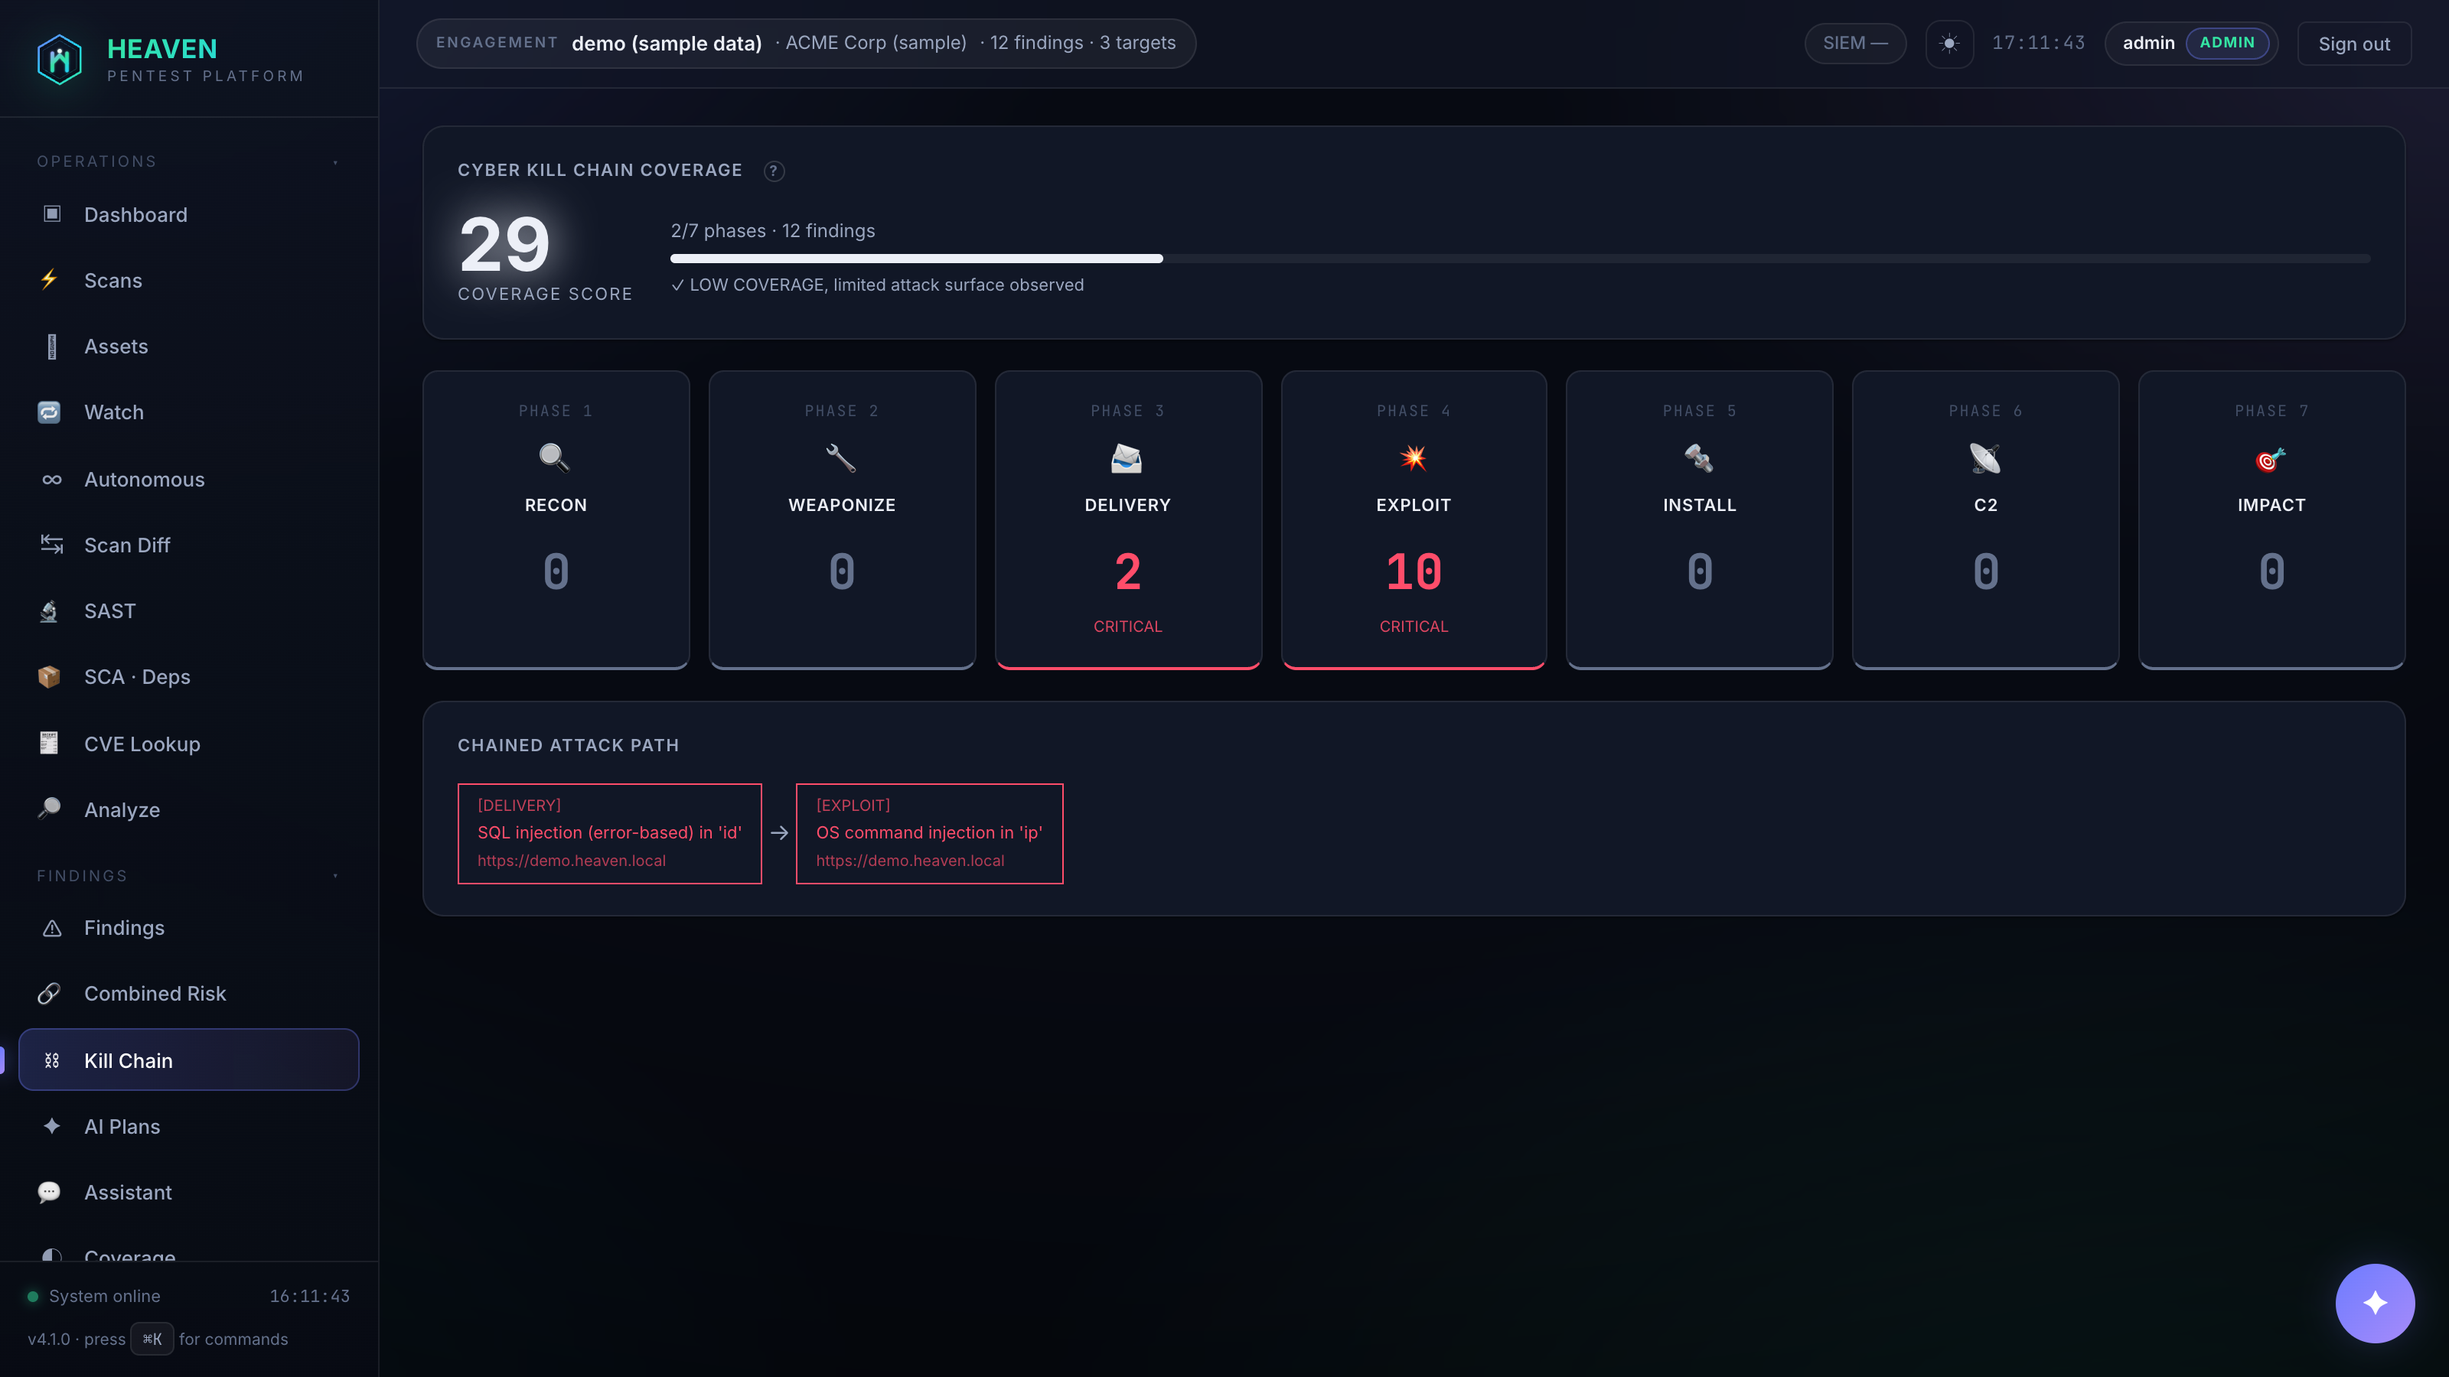
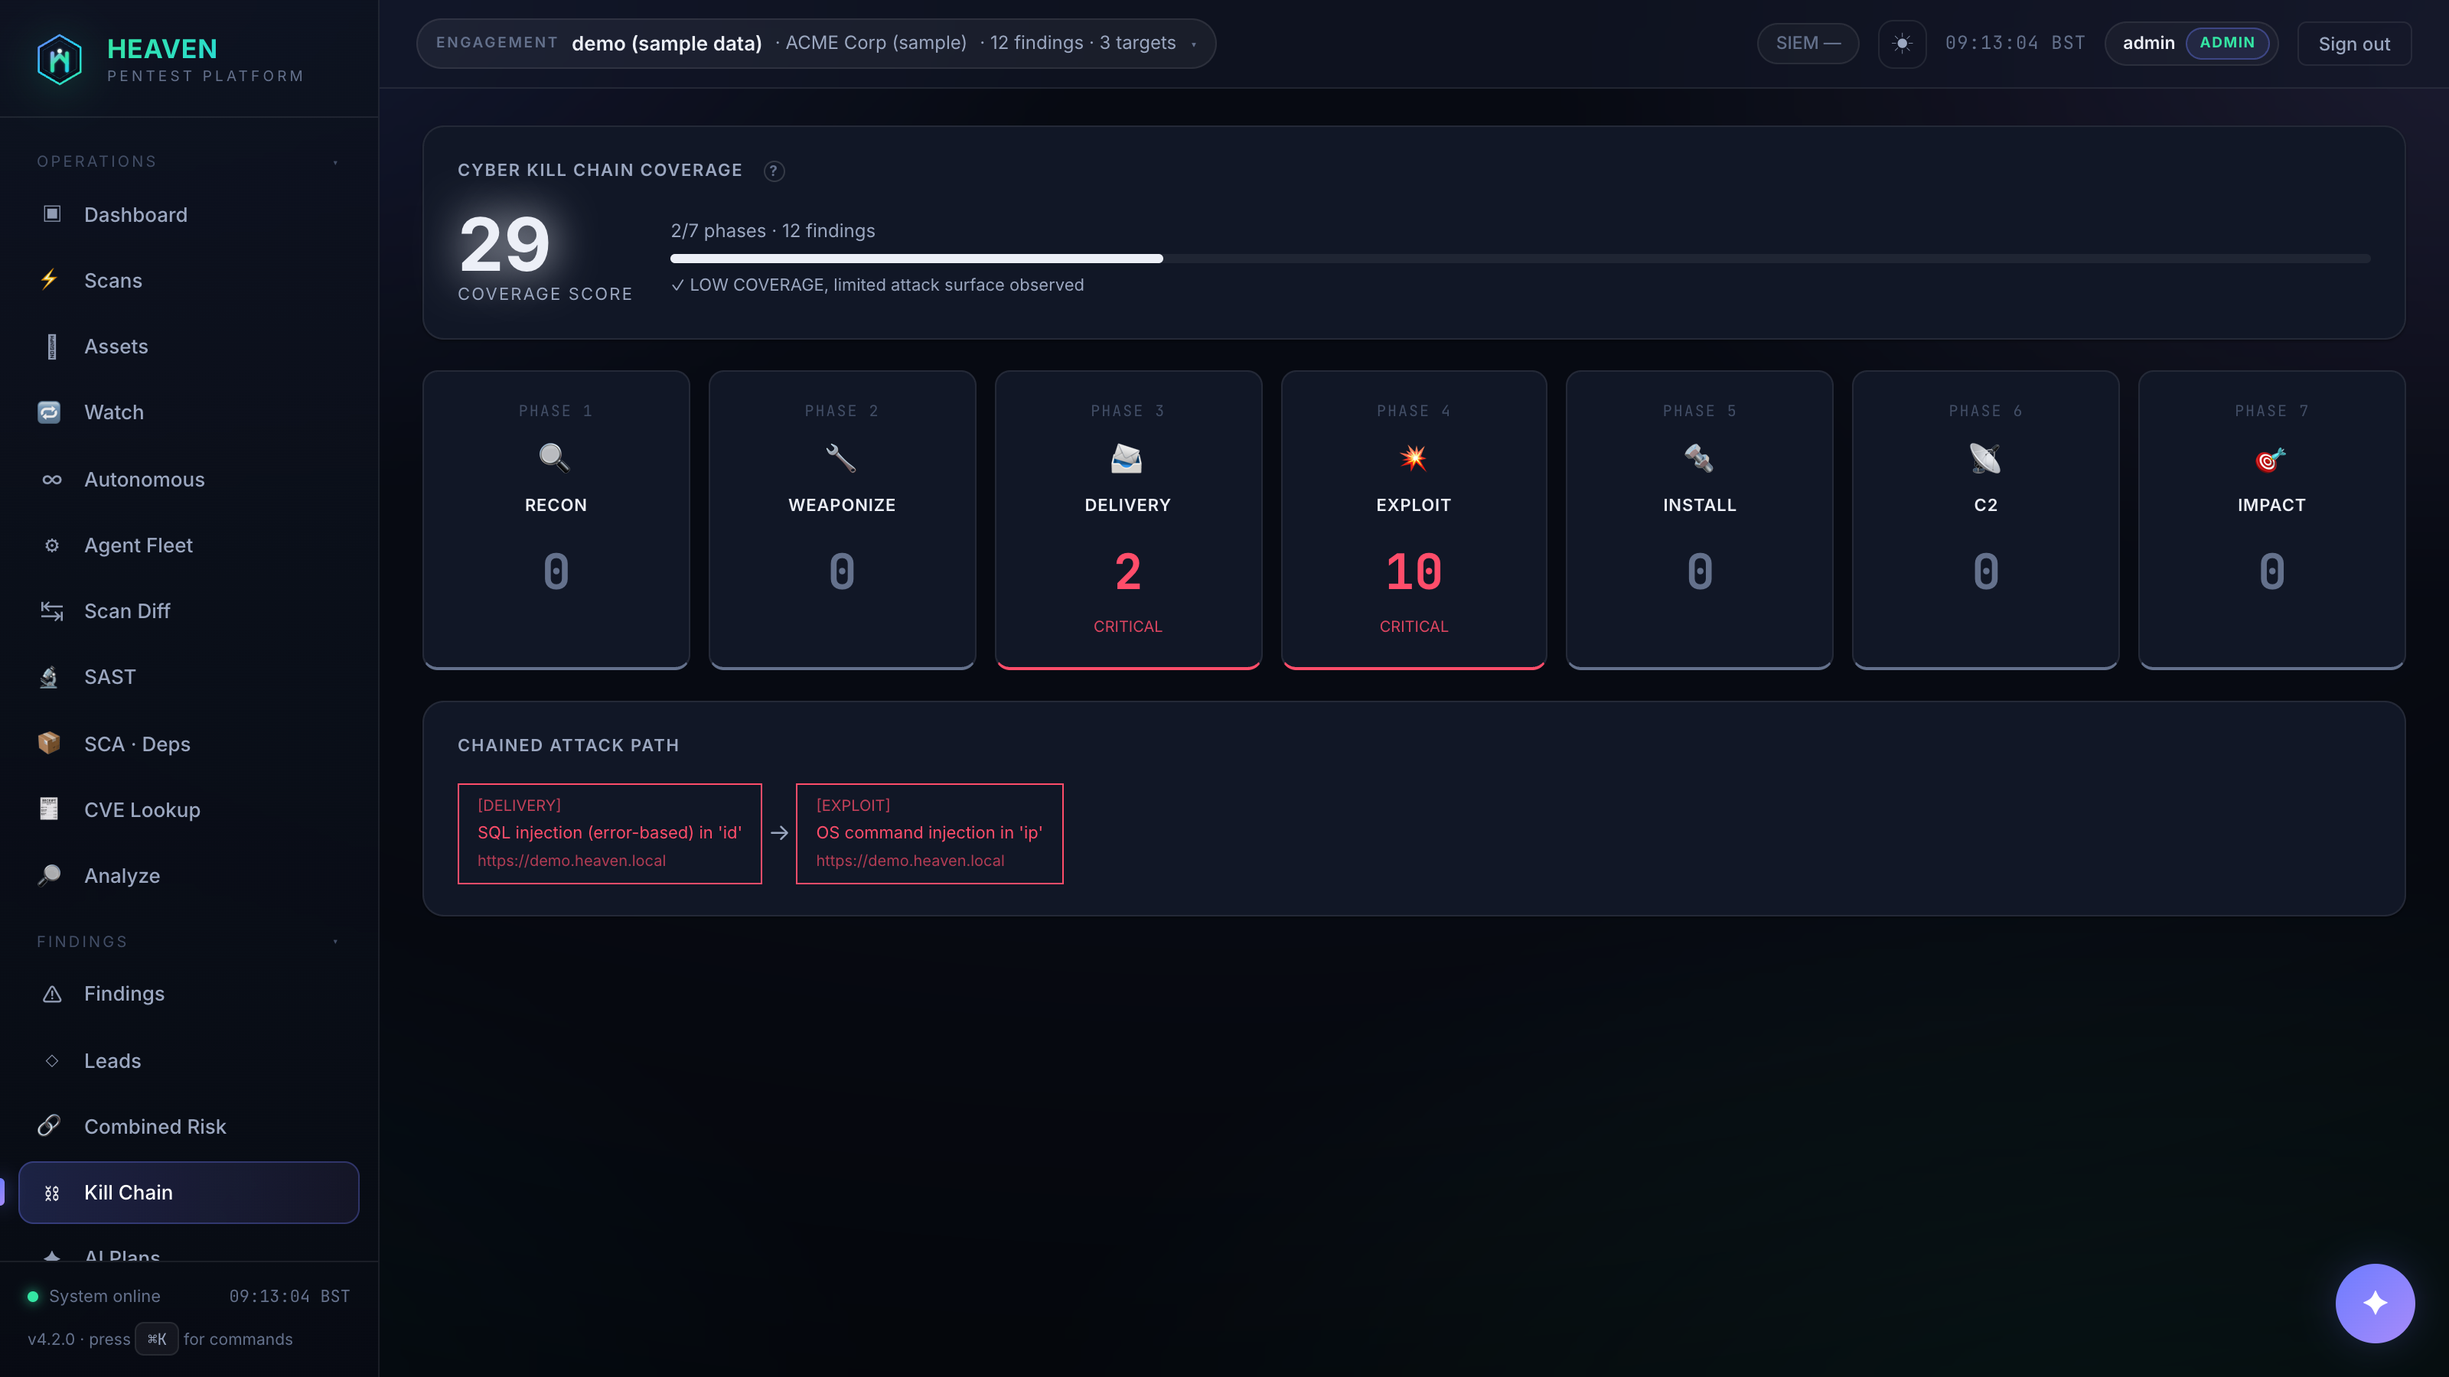
chore: release version 4.2.0
- The Agent Fleet is now the default scan engine, enhancing coverage and maintaining recall parity with classic scans.
- Java SAST now utilizes a real dataflow pass for confirming Semgrep matches, improving accuracy in vulnerability detection.
- Engagement chip in the header upgraded to an app-wide switcher for easier context switching between engagements.
- Honest leads are now retained for human review instead of being dropped silently.
- Container scanning no longer probes the operator's machine when no container host is in scope, preventing false critical findings.
- Updated various documentation and assets to reflect the new version, including README, CHANGELOG, and UI elements.
- Security updates and dependency upgrades, including resolving Bandit alerts and adding tzdata for timezone handling.

diff --git a/heaven-ui/src/components/Sidebar.jsx b/heaven-ui/src/components/Sidebar.jsx
@@ -167,7 +167,7 @@ export default function Sidebar() {
           </span>
         </div>
         <div style={{ marginTop: 8, fontSize: 10.5, color: 'var(--text-2)' }}>
-          v4.1.0 · press <kbd>⌘K</kbd> for commands
+          v4.2.0 · press <kbd>⌘K</kbd> for commands
         </div>
       </div>
     </aside>

diff --git a/tests/test_timefmt.py b/tests/test_timefmt.py
@@ -13,7 +13,7 @@ from datetime import datetime, timedelta, timezone
 import pytest
 
 import heaven.utils.timefmt as tf
-from heaven.config import HeavenConfig, get_config
+from heaven.config import HeavenConfig
 
 # A machine's tz database may be absent (a bare Windows CI without `tzdata`); the
 # helper then falls back to local, which is correct but not assertable as IST.
@@ -28,8 +28,21 @@ _needs_tzdata = pytest.mark.skipif(not _HAVE_TZDATA, reason="no IANA tz database
 
 
 def _pin(monkeypatch, name: str) -> None:
-    """Pin the display timezone on the live config singleton (auto-restored)."""
-    monkeypatch.setattr(get_config(), "report_timezone", name, raising=False)
+    """Pin the display timezone on the live config singleton (auto-restored).
+
+    Resolve ``heaven.config`` at call time instead of through a module-level
+    import: a sibling test (``test_advanced``) deletes every ``heaven.*`` module
+    from ``sys.modules`` and re-imports, so an import-time ``get_config`` binding
+    would be orphaned by the time this file runs — it would patch the *old*
+    module's singleton while ``timefmt.resolve_tz`` (which imports the config
+    fresh on every call) reads the *new* module's, and the pin would silently not
+    apply. Importing here keeps the patched singleton the one ``resolve_tz`` sees,
+    the same call-time-import discipline the rest of the suite already uses (see
+    ``test_egress_routing`` / ``test_fp_review_concurrency``)."""
+    import importlib
+
+    cfg = importlib.import_module("heaven.config")
+    monkeypatch.setattr(cfg.get_config(), "report_timezone", name, raising=False)
 
 
 # A fixed instant so wall-clock assertions are exact regardless of "now".

diff --git a/tests/test_doc_count_sync.py b/tests/test_doc_count_sync.py
@@ -81,7 +81,7 @@ def test_sync_poster_matches_real_poster_markup():
         assert ">43</text>" in bumped
         assert ">41</text>" in bumped
         assert "4242 tests, 43 CLI commands, 41 API routes" in bumped
-        # Hand-set figures survive the rewrite untouched (30 UI pages =
-        # Sidebar.jsx's 29 nav entries + the Finding Detail route; 15 scan
+        # Hand-set figures survive the rewrite untouched (32 UI pages =
+        # Sidebar.jsx's 31 nav entries + the Finding Detail route; 15 scan
         # modes = the SCAN_MODES array in scanModes.js).
-        assert "30 UI pages, 15 scan modes" in bumped
+        assert "32 UI pages, 15 scan modes" in bumped

diff --git a/heaven/ml/risk_model.py b/heaven/ml/risk_model.py
@@ -91,7 +91,7 @@ class HeavenRiskModel:
         # (data/models/cvss_regressor.joblib from `heaven train-model`); the file
         # itself is never loaded directly.
         self.model_path = model_path or Path("models/risk_model_v2.joblib")
-        self.version = "4.1.0"
+        self.version = "4.2.0"
         self._is_trained = False
         self._regressor = None
         self._feature_names: list[str] = []

diff --git a/heaven/__init__.py b/heaven/__init__.py
@@ -1,7 +1,7 @@
 # HEAVEN — Autonomous Pen-Testing Framework
 # Core package initialisation
 
-__version__ = "4.1.0"
+__version__ = "4.2.0"
 __codename__ = "HEAVEN"
 __tagline__ = "Autonomous Penetration-Testing Platform"
 

diff --git a/CHANGELOG.md b/CHANGELOG.md
@@ -9,7 +9,52 @@ and this project adheres to [Semantic Versioning](https://semver.org/spec/v2.0.0
 
 ## [Unreleased]
 
+## [4.2.0]: 2026-09-24
+
 ### Added
+
+- **The Agent Fleet is now the default scan engine: a role-based multi-agent
+  layer that wraps the deterministic scanners instead of replacing them.** Roles
+  propose work and the same deterministic oracles that power `heaven scan` verify
+  it, so only a confirmed result ever becomes a finding and no agent can author
+  one. The fleet runs at full strength with no LLM and no API key (the rule-based
+  planners are the floor); a brain, when one is present, is pure enrichment chosen
+  by an intelligence ladder that auto-selects a local Ollama model or an existing
+  cloud key and otherwise stays deterministic. Because the fleet is a superset of
+  the classic pipeline it can only add coverage, never drop a finding (recall
+  parity is proven on the labs), and classic `heaven scan` stays byte-for-byte the
+  same; a process reverts the default with `HEAVEN_AGENT_FLEET=0`. It ships one
+  lead role per scan mode plus five agent primitives (recon, hypothesis, critic,
+  gap and strategist), a blackboard the agents coordinate through, a bounded
+  scheduler, a metrics harness and an optional distributed worker pool
+  (`HEAVEN_FLEET_WORKERS`) for the largest engagements. Surfaced end to end: the
+  `heaven fleet` command, a Fleet page in the web UI, the autonomous loop, and a
+  live tier and status readout in `heaven doctor` and the health API.
+
+- **Java SAST now confirms or drops a Semgrep match with a real dataflow pass
+  instead of trusting the syntactic rule.** Semgrep's Java taint rules flag a
+  source-to-sink flow whenever both appear in one method, but they cannot fold
+  constants, tell which branch of an `if` / `switch` is live, model a `Map` / `List`
+  access by its constant key, or resolve an algorithm name a `.properties` file
+  supplies at runtime, which is how a lookalike sitting in dead code slips through.
+  A new `heaven/vulnscan/java_dataflow.py` refinement pass parses a real Java AST
+  (`javalang`) and runs a small intra-procedural abstract interpreter that tracks
+  taint per variable, folds integer / string / char / boolean constants, prunes
+  provably-dead branches, models `StringBuilder` / `Map` / `List` / array
+  operations on constant keys and honors the same category sanitizers the rules
+  use. A finding is dropped only when the interpreter can prove every reachable
+  sink of that category receives no tainted value; every unknown over-approximates
+  taint, so the pass removes lookalikes and can never hide a real flow. It also
+  resolves weak-crypto algorithm names read from `.properties` files and flags the
+  resolved value when it is broken. New coverage in `tests/test_java_dataflow.py`.
+
+- **The engagement chip in the header is now an app-wide switcher.** Clicking it
+  opens the full engagement list (sorted by most-recently-updated, each with a
+  last-updated timestamp) and selecting one changes the active engagement for the
+  whole app at once: the dashboard, findings, reports and every other page follow
+  the same `heaven:engagement-changed` event, so an operator juggling several
+  client engagements no longer has to switch it from the CLI or reload the page to
+  change context.
 
 - **Honest leads: a substantiated signal below the finding bar is now kept for a
   human instead of being dropped silently.** The false-positive suppressor discards
@@ -71,7 +116,7 @@ and this project adheres to [Semantic Versioning](https://semver.org/spec/v2.0.0
 - **The description/type CVSS model is a measurably better ranking aid, reported
   by the metric that matches its job.** Three honest changes, no faking:
   - **Genuine model lift.** An exhaustive re-search of the text recipe adopted
-    word 1–3 grams at 100k TF-IDF features (from 1–2 grams at 50k). On the
+    word 1-3 grams at 100k TF-IDF features (from 1-2 grams at 50k). On the
     deployment population (the scoreless findings HEAVEN actually routes here) this
     improves every metric at once, measured by honest 5-fold out-of-fold CV:
     exact-score R² 0.626 → 0.640, MAE 0.790 → 0.767, Spearman rank correlation
@@ -157,6 +202,16 @@ and this project adheres to [Semantic Versioning](https://semver.org/spec/v2.0.0
   now derives a stable id from the same content hash the engagement store uses, so
   the id is never blank, matches the stored id exactly, and tells otherwise
   identical-looking findings apart. New coverage in `tests/test_honest_leads.py`.
+
+- **Container scanning no longer probes the operator's own machine when no
+  container host is in scope.** A remote or URL engagement that resolved no
+  container hosts fell through a `hosts or ["localhost"]` default and scanned the
+  operator's own `/var/run/docker.sock`, then attributed that local Docker socket
+  to the engagement as a bogus critical finding. An explicit host list is now
+  authoritative including an empty one (empty means nothing is in scope, so
+  nothing is scanned); the `localhost` default applies only to a deliberate
+  local-only invocation such as a bare `scan_containers()`. New coverage in
+  `tests/test_scanmode_fp_audit2_fixes.py`.
 
 ### Security
 

diff --git a/README.md b/README.md
@@ -4,7 +4,7 @@
 <picture>
   <source media="(prefers-color-scheme: dark)" srcset="docs/assets/heaven-poster.svg"/>
   <source media="(prefers-color-scheme: light)" srcset="docs/assets/heaven-poster-light.svg"/>
-  <img src="docs/assets/heaven-poster.svg" width="100%" alt="HEAVEN: Autonomous Penetration-Testing Framework · Recon → ML Risk Scoring → Verified Exploitation → Reporting · 3075 tests · 64 CLI commands · 106 API routes · 30 UI pages · 15 scan modes · hybrid CVSS ML predictor R²=0.91 · LLM observe→plan→act with deterministic fallback (no API key required)"/>
+  <img src="docs/assets/heaven-poster.svg" width="100%" alt="HEAVEN: Autonomous Penetration-Testing Framework · Recon → ML Risk Scoring → Verified Exploitation → Reporting · 3075 tests · 64 CLI commands · 106 API routes · 32 UI pages · 15 scan modes · hybrid CVSS ML predictor R²=0.91 · LLM observe→plan→act with deterministic fallback (no API key required)"/>
 </picture>
 </p>
 
@@ -23,7 +23,7 @@
   <p>
     <img src="https://img.shields.io/badge/Modules-232-FF36AB?style=flat-square&logo=python&logoColor=white" alt="Modules"/>
     <img src="https://img.shields.io/badge/CLI_Commands-64-7400B8?style=flat-square&logo=gnubash&logoColor=white" alt="CLI"/>
-    <img src="https://img.shields.io/badge/UI_Pages-30-B8FF00?style=flat-square&logo=react&logoColor=black" alt="UI"/>
+    <img src="https://img.shields.io/badge/UI_Pages-32-B8FF00?style=flat-square&logo=react&logoColor=black" alt="UI"/>
     <img src="https://img.shields.io/badge/DB-PostgreSQL_%2B_SQLite-00D2FF?style=flat-square&logo=postgresql&logoColor=black" alt="DB"/>
     <img src="https://img.shields.io/badge/CVSS_Predictor-R²%3D0.91-FF6E00?style=flat-square&logo=databricks&logoColor=white" alt="CVSS"/>
   </p>
@@ -94,7 +94,7 @@ It runs three ways from the **same engagement dataset**:
 - **REST + WebSocket API**: 106 RBAC-protected routes for automation and integration.
 
 <div align="center">
-<img width="760" alt="HEAVEN: Autonomous Penetration Testing Platform v4.1.0" src="docs/screenshots/Heaven_Autonomous_Penetration_Testing_Platform.png" />
+<img width="760" alt="HEAVEN: Autonomous Penetration Testing Platform v4.2.0" src="docs/screenshots/Heaven_Autonomous_Penetration_Testing_Platform.png" />
 </div>
 
 ---
@@ -115,7 +115,7 @@ It runs three ways from the **same engagement dataset**:
 | 🧩 **Modules** | 232 |
 | ⌨ **CLI Commands** | 64 |
 | 🌐 **API Routes** | 106 RBAC-protected routes |
-| 🖥 **UI Pages** | 30 (React + Vite, dark glassmorphic) |
+| 🖥 **UI Pages** | 32 (React + Vite, dark glassmorphic) |
 | 🗄 **Database** | PostgreSQL (async, 29-table schema) + zero-config SQLite fallback |
 | 🤖 **AI / LLM** | Observe→plan→act loop · recon agent · attack-chain planner · **vuln-hypothesis agent (LLM proposes, real detectors verify)** · FP review · knowledge graph |
 | 🧠 **LLM Providers** | Anthropic · OpenAI · Gemini · DeepSeek · local (Ollama / any OpenAI-compatible server) · **deterministic fallback (no API key needed)** |
@@ -464,7 +464,7 @@ AI feature falls back to a deterministic heuristic (or pass `--no-llm`).
 64 commands. Run `heaven <command> --help` for full options.
 
 <div align="center">
-<img width="820" alt="heaven CLI dashboard: module status + live command reference (v4.1.0)" src="docs/screenshots/Heaven_cli.png" />
+<img width="820" alt="heaven CLI dashboard: module status + live command reference (v4.2.0)" src="docs/screenshots/Heaven_cli.png" />
 </div>
 
 <div align="center">
@@ -883,7 +883,7 @@ By using HEAVEN you agree you are solely responsible for ensuring you have prope
 </p>
 
 <p align="center">
-<strong>3075 tests · 232 modules · 64 CLI commands · 106 API routes · 30 UI pages · PostgreSQL + SQLite · MIT</strong>
+<strong>3075 tests · 232 modules · 64 CLI commands · 106 API routes · 32 UI pages · PostgreSQL + SQLite · MIT</strong>
 </p>
 
 <p align="center">

diff --git a/SECURITY.md b/SECURITY.md
@@ -128,8 +128,8 @@ For a multi-user or internet-exposed deployment, also:
 
 | Version | Supported |
 |---|---|
-| 4.1.x  | ✅ |
-| < 4.1  | ❌ please upgrade |
+| 4.2.x  | ✅ |
+| < 4.2  | ❌ please upgrade |
 
 ## Security release process
 
